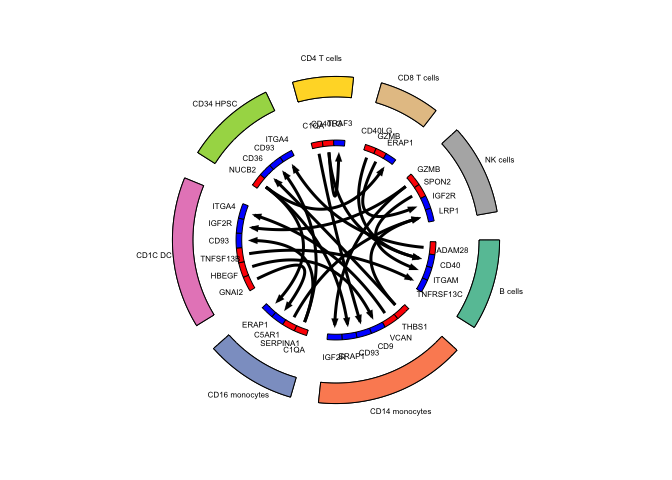
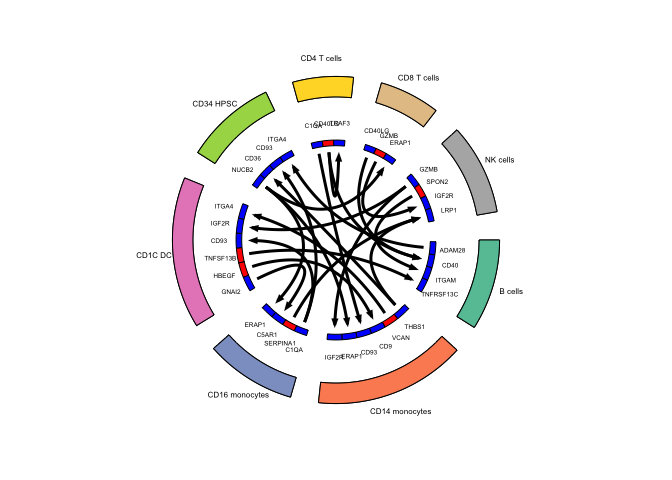
Update readme with new circos plot

diff --git a/README.md b/README.md
@@ -61,8 +61,8 @@ hca_bm[["cell_types"]] <- hca_bm_umap_cell_types$cell_types
 hca_bm <- NormalizeData(hca_bm)
 
 # Add UMAP coordinates
-hca_bm[["umap"]] <- CreateDimReducObject(embeddings=as.matrix(hca_bm_umap_cell_types[,1:2]),key="UMAP_")
-#> Warning: No assay specified, setting assay as RNA by default.
+hca_bm[["umap"]] <- CreateDimReducObject(embeddings=as.matrix(hca_bm_umap_cell_types[,1:2]),
+  key="UMAP_",assay="RNA")
 
 # View cell types
 DimPlot(hca_bm,group.by="cell_types")
@@ -89,11 +89,9 @@ top_stats <- hca_bm_interactions %>%
   ungroup()
 
 ## Generate a circos plot
-colours_use <- RColorBrewer::brewer.pal(n=length(unique(hca_bm$cell_types)),"Set2")
+colors_use <- RColorBrewer::brewer.pal(n=length(unique(hca_bm$cell_types)),"Set2")
 
-suppressMessages(
-circos_plot(ligand.receptor.frame=top_stats,colors=colours_use,lig.col="blue",rec.col="red")
-)
+circos_plot(ligand_receptor_frame=top_stats,cell_group_colors=colors_use,ligand_color="blue",receptor_color="red",cex_outer=0.5,cex_inner=0.4)
 ```
 
 <img src="man/figures/README-example-2.png" width="100%" />
